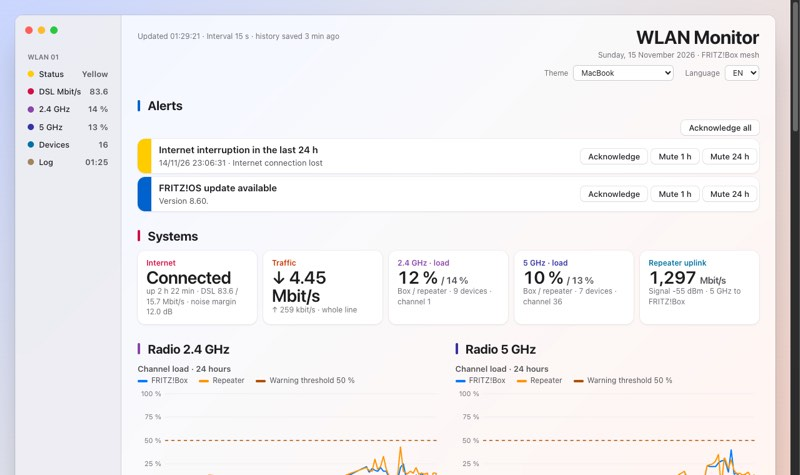
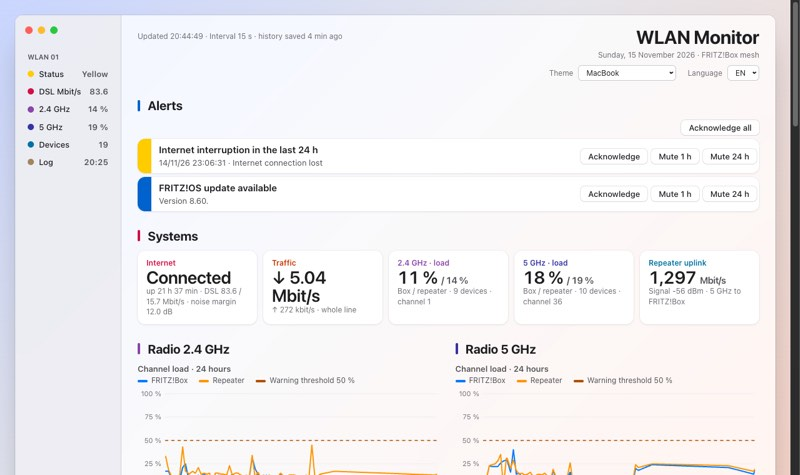
Raise contrast of detail labels and MacBook side bar header
The device detail labels in Brutalism, Museum, Street Art and Summer
and the side bar header in MacBook were below 4.5:1; they now use the
theme's secondary text colour.

diff --git a/themes/macbook.css b/themes/macbook.css
@@ -7,7 +7,7 @@ html[data-theme="macbook"]{
  & .frame{background:rgba(255,255,255,.78);backdrop-filter:blur(30px) saturate(1.6);border-radius:12px;overflow:hidden;min-height:calc(100vh - 48px);box-shadow:0 30px 60px -20px rgba(0,0,0,.35),0 0 0 .5px rgba(0,0,0,.2)}
  & .rail{position:relative;background:rgba(232,232,237,.7);border-right:.5px solid rgba(0,0,0,.12);padding:48px 10px 10px;gap:2px}
  & .rail::before{content:"";position:absolute;top:18px;left:16px;width:12px;height:12px;border-radius:50%;background:#ff5f57;box-shadow:20px 0 #febc2e,40px 0 #28c840}
- & .elbow{background:none;color:var(--mut);font-size:11px;font-weight:600;letter-spacing:0;min-height:0;padding:12px 10px 4px;justify-content:flex-start;border-radius:0}
+ & .elbow{background:none;color:var(--tx2);font-size:11px;font-weight:600;letter-spacing:0;min-height:0;padding:12px 10px 4px;justify-content:flex-start;border-radius:0}
  & .pill{background:none;color:var(--tx);text-transform:none;letter-spacing:0;font-size:13px;font-weight:500;min-height:0;padding:6px 10px;border-radius:6px;flex-direction:row;align-items:center;gap:8px}
  & .pill::before{content:"";flex:none;width:10px;height:10px;border-radius:50%;background:var(--c)}& .pill span{flex:1}
  & .pill b{font-size:13px;font-weight:600;color:var(--tx2)}& .pill:hover,& .pill:focus-visible{background:rgba(0,0,0,.06);filter:none}

diff --git a/themes/brutalism.css b/themes/brutalism.css
@@ -32,7 +32,7 @@ html[data-theme="brutalism"]{
  & td:first-child{border-left:12px solid var(--c)}
  & .st{color:var(--tx);text-transform:uppercase;font-family:var(--head);font-weight:700;letter-spacing:.04em}
  & .log .t{color:var(--mut);text-transform:uppercase}
- & .info dt{color:#333330;text-transform:uppercase;font-family:var(--head);font-weight:700;letter-spacing:.05em}
+ & .info dt{color:var(--tx2);text-transform:uppercase;font-family:var(--head);font-weight:700;letter-spacing:.05em}
  & details.muted summary{color:#4b4b47;text-transform:uppercase;letter-spacing:.04em}
  & .themesel select{background:var(--panel);border:3px solid #1a1a1a;border-radius:0;color:#1a1a1a;font-family:var(--font)}
 }

diff --git a/themes/summer.css b/themes/summer.css
@@ -42,7 +42,7 @@ html[data-theme="summer"]{
  & td:first-child{border-left:12px solid var(--c)}
  & .st{color:#123a52;font-weight:700;text-transform:none}
  & .log .t{color:var(--mut);font-family:var(--head);font-weight:600}
- & .info dt{color:#0068a5;font-family:var(--head);font-weight:700}
+ & .info dt{color:var(--tx2);font-family:var(--head);font-weight:700}
  & details.muted summary{color:#1d4f6b}
  & .tip{background:#ffffff;color:#0b3d5c;border:2px solid #ff9800;border-radius:10px;box-shadow:0 6px 14px rgba(0,90,130,.2)}
  & .pill.warn,& .pill.warn *{color:var(--on-warn)}

diff --git a/themes/museum.css b/themes/museum.css
@@ -41,7 +41,7 @@ html[data-theme="museum"]{
  & td:first-child{border-left:12px solid var(--c)}
  & .st{font-family:var(--head);color:#2b2720;text-transform:uppercase;letter-spacing:.05em}
  & .log .t{color:var(--mut);font-family:'IBM Plex Mono',monospace}
- & .info dt{color:#8a6d2f;font-family:var(--head);text-transform:uppercase;letter-spacing:.05em}
+ & .info dt{color:var(--tx2);font-family:var(--head);text-transform:uppercase;letter-spacing:.05em}
  & details.muted summary{color:#6b6455;font-style:italic}
  & .pill.warn,& .pill.warn *{color:var(--on-warn)}
 }

diff --git a/themes/streetart.css b/themes/streetart.css
@@ -55,7 +55,7 @@ html[data-theme="streetart"]{
  & td:last-child{border-radius:0 4px 4px 0}
  & .st{color:#1b1b20;text-transform:uppercase;font-family:var(--head);letter-spacing:.03em}
  & .log .t{color:#4a4a52;font-family:var(--font)}
- & .info dt{color:#ff2e9a;text-transform:uppercase;letter-spacing:.04em;font-family:var(--head)}
+ & .info dt{color:var(--tx2);text-transform:uppercase;letter-spacing:.04em;font-family:var(--head)}
  & details.muted summary{color:#34343c;text-transform:none}
  & .pill.warn,& .pill.warn *{color:var(--on-warn)}
 }
